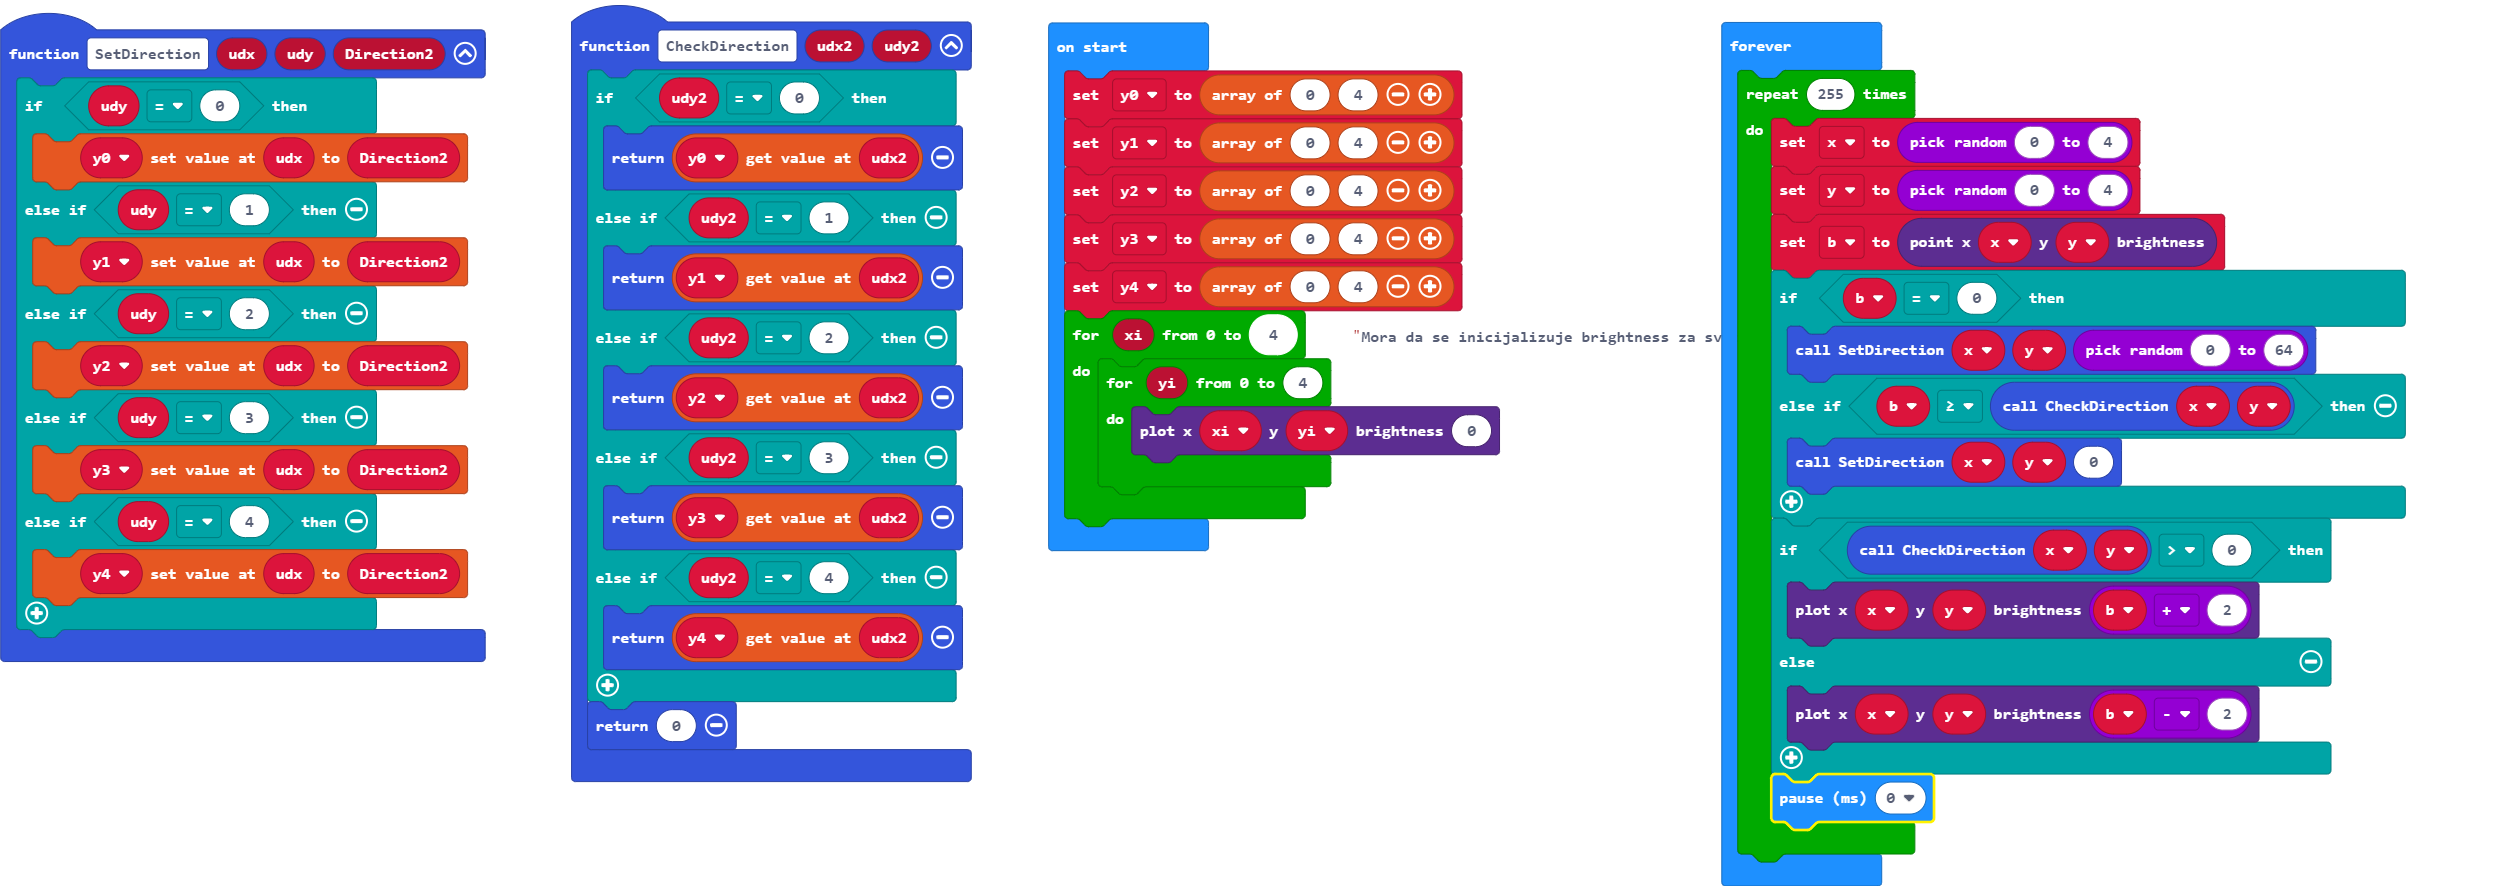
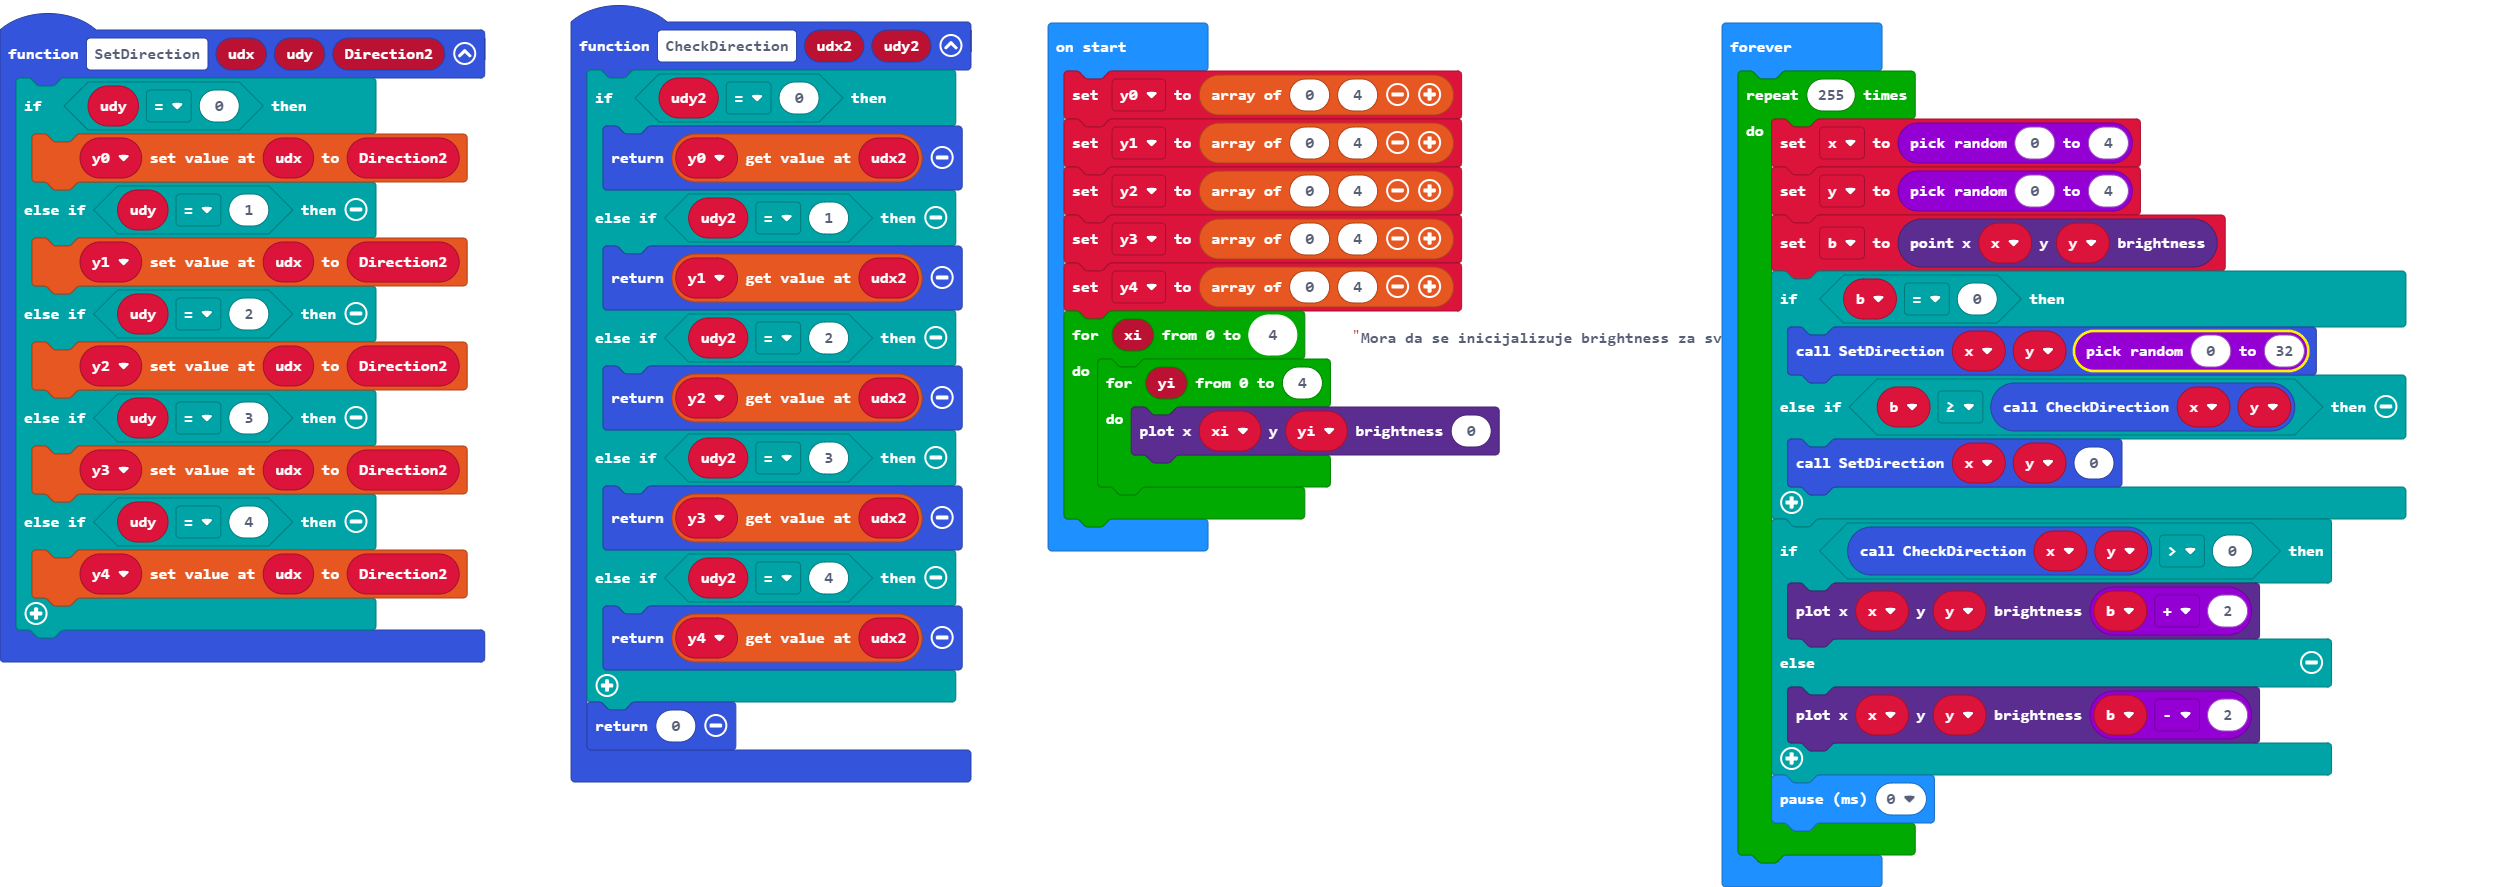
Update main.blocks, main.ts, main.py

diff --git a/main.ts b/main.ts
@@ -49,7 +49,7 @@ basic.forever(function () {
         y = randint(0, 4)
         b = led.pointBrightness(x, y)
         if (b == 0) {
-            SetDirection(x, y, randint(0, 64))
+            SetDirection(x, y, randint(0, 32))
         } else if (b >= CheckDirection(x, y)) {
             SetDirection(x, y, 0)
         }

diff --git a/main.py b/main.py
@@ -9,7 +9,6 @@ def SetDirection(udx: number, udy: number, Direction2: number):
         y3[udx] = Direction2
     elif udy == 4:
         y4[udx] = Direction2
-
 def CheckDirection(udx2: number, udy2: number):
     if udy2 == 0:
         return y0[udx2]
@@ -22,55 +21,36 @@ def CheckDirection(udx2: number, udy2: number):
     elif udy2 == 4:
         return y4[udx2]
     return 0
-
 b = 0
 y = 0
 x = 0
-
 y4: List[number] = []
 y3: List[number] = []
 y2: List[number] = []
 y1: List[number] = []
 y0: List[number] = []
-
-led.set_brightness(255)
-
 y0 = [0, 4]
 y1 = [0, 4]
 y2 = [0, 4]
 y3 = [0, 4]
 y4 = [0, 4]
-
 for xi in range(5):
-    y0[xi] = randint(0, 64)
-    y1[xi] = randint(0, 64)
-    y2[xi] = randint(0, 64)
-    y3[xi] = randint(0, 64)
-    y4[xi] = randint(0, 64)
-
-for xi2 in range(5):
     for yi in range(5):
-        led.plot_brightness(0, 0, 0)
+        led.plot_brightness(xi, yi, 0)
 
 def on_forever():
     global x, y, b
-    
     for index in range(255):
-        
         x = randint(0, 4)
         y = randint(0, 4)
         b = led.point_brightness(x, y)
-        
-        if b == CheckDirection(x, y):
-            SetDirection(x, y, 0)
-        elif b == 0:
+        if b == 0:
             SetDirection(x, y, randint(0, 64))
-        
+        elif b >= CheckDirection(x, y):
+            SetDirection(x, y, 0)
         if CheckDirection(x, y) > 0:
-            led.plot_brightness(x, y, b + 1)
+            led.plot_brightness(x, y, b + 2)
         else:
-            led.plot_brightness(x, y, b - 1)
-        
+            led.plot_brightness(x, y, b - 2)
         basic.pause(0)
-
 basic.forever(on_forever)
